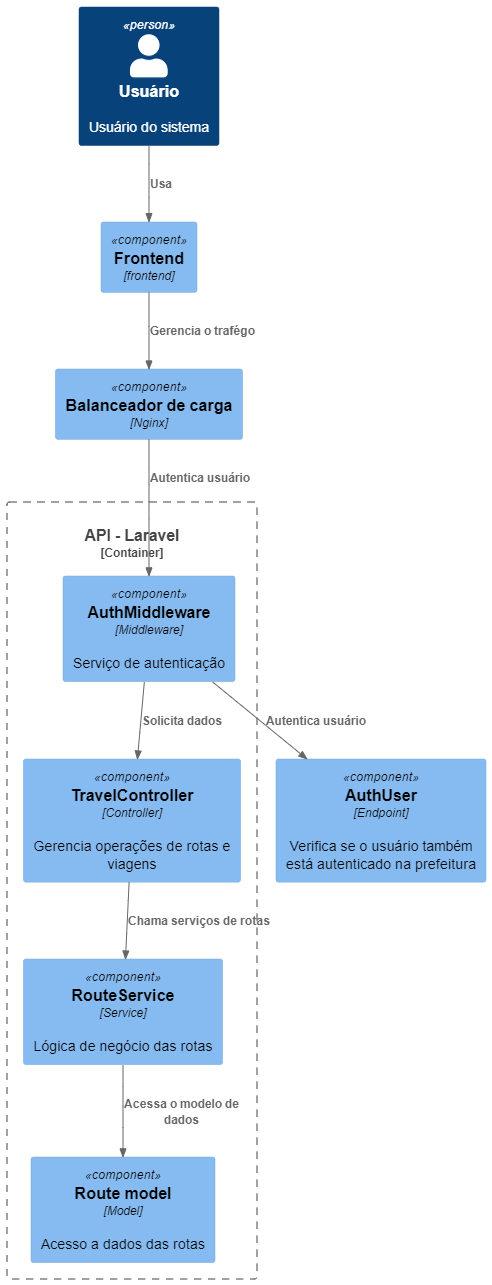
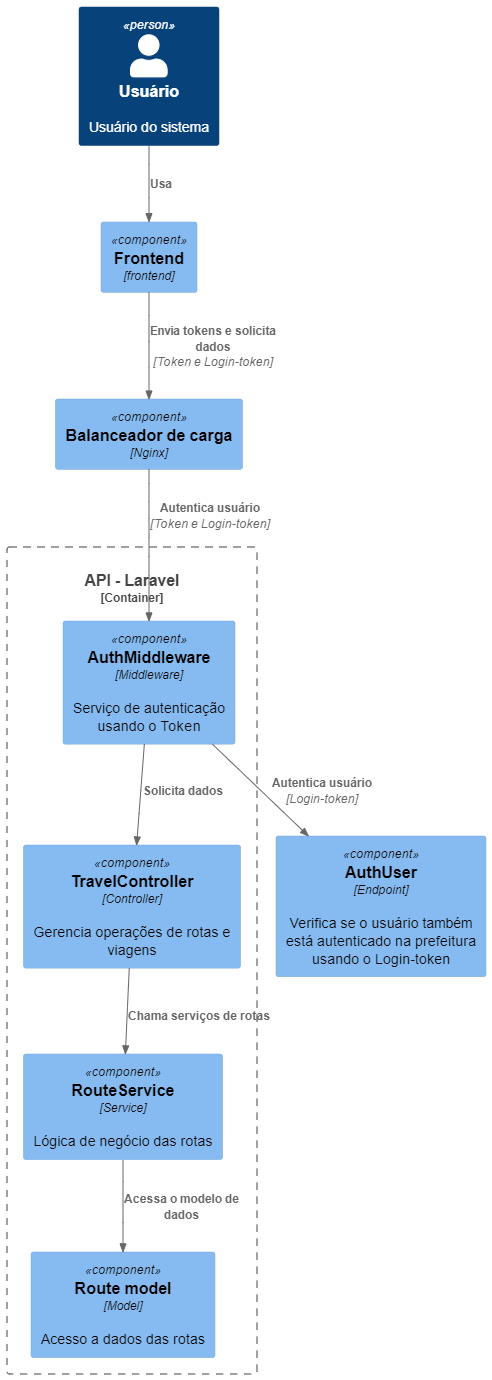
Correcoes feitas

diff --git a/readme.md b/readme.md
@@ -2,7 +2,7 @@
 
 O diagrama é um espelho da funcionalidade de CRUD da funcionalidade de rotas e viagens, onde o controlador de viagens se comunica com o serviço de rotas justamente porquê possuem uma forte relação entre os modelos de viagem e rota.
 
-O usuário solicita os dados através do frontend da aplicação, a solicitação é enviada para o balanceador de carga que redireciona para o back onde primeiro passa pelo middleware criado para verificar o usuário está autenticado e pode fazer aquela solicitação, o mesmo também verifica a autenticação no backend do sistema de login (prefeitura).
+O usuário solicita os dados através do frontend da aplicação, a solicitação é enviada juntamente com dois tokens (um com nome de token e outro como Login-token, o primeiro serve para autenticar o usuário no backend da secretária, já o segundo autentica lá no backend da prefeitura) para o balanceador de carga que redireciona para o back onde primeiro passa pelo middleware criado para verificar o usuário se está autenticado e pode fazer aquela solicitação, o mesmo também verifica a autenticação no backend do sistema de login (prefeitura).
 
 O serviço de rotas se comunica com o modelo de rota onde se comunica com o banco de dados.
 
